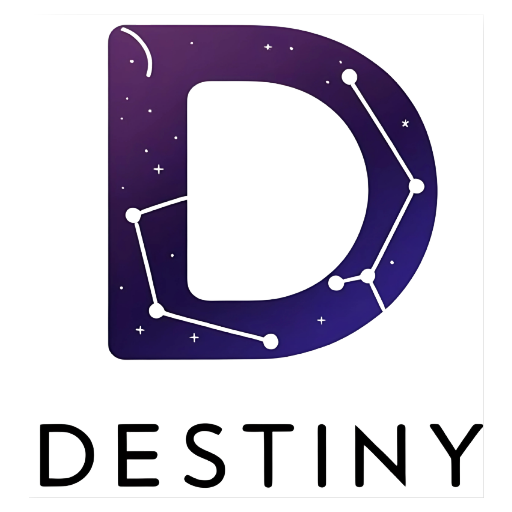
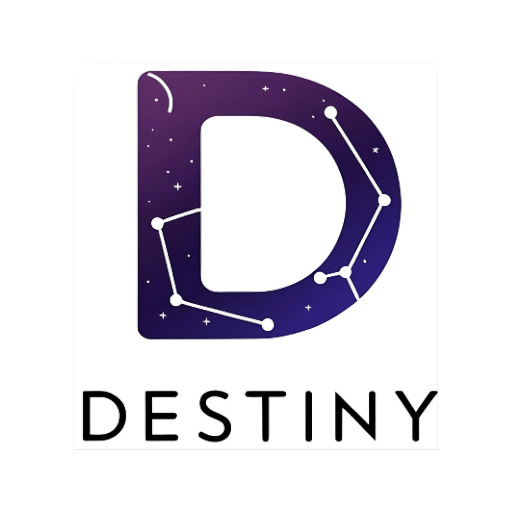
asdads

Changed region(s): [[0.1875, 0.0312, 0.875, 0.7188], [0.0625, 0.75, 0.9375, 0.9688]]

diff --git a/public/sw.js b/public/sw.js
@@ -6,7 +6,7 @@ const DYNAMIC_CACHE_NAME = 'destiny-dynamic-v1';
 const STATIC_ASSETS = [
   '/',
   '/offline',
-  '/images/destiny-logo.svg',
+  '/images/sigla-512.png',
   '/images/logo.png',
   '/images/sigla-512.png',
   '/images/auth.png',
@@ -156,8 +156,8 @@ self.addEventListener('push', (event) => {
   
   const options = {
     body: event.data ? event.data.text() : 'Ai primit o notificare nouă!',
-    icon: '/images/destiny-logo.svg',
-    badge: '/images/logo.png',
+    icon: '/images/sigla-512.png',
+    badge: '/images/sigla-512.png',
     vibrate: [100, 50, 100],
     data: {
       dateOfArrival: Date.now(),
@@ -167,12 +167,12 @@ self.addEventListener('push', (event) => {
       {
         action: 'explore',
         title: 'Vezi',
-        icon: '/images/destiny-logo.svg'
+        icon: '/images/sigla-512.png'
       },
       {
         action: 'close',
         title: 'Închide',
-        icon: '/images/destiny-logo.svg'
+        icon: '/images/sigla-512.png'
       }
     ]
   };

diff --git a/hooks/usePWA.js b/hooks/usePWA.js
@@ -137,8 +137,8 @@ export function usePWA() {
     }
 
     const defaultOptions = {
-      icon: '/images/destiny-logo.svg',
-      badge: '/images/logo.png',
+      icon: '/images/sigla-512.png',
+      badge: '/images/sigla-512.png',
       vibrate: [100, 50, 100],
       ...options
     };
